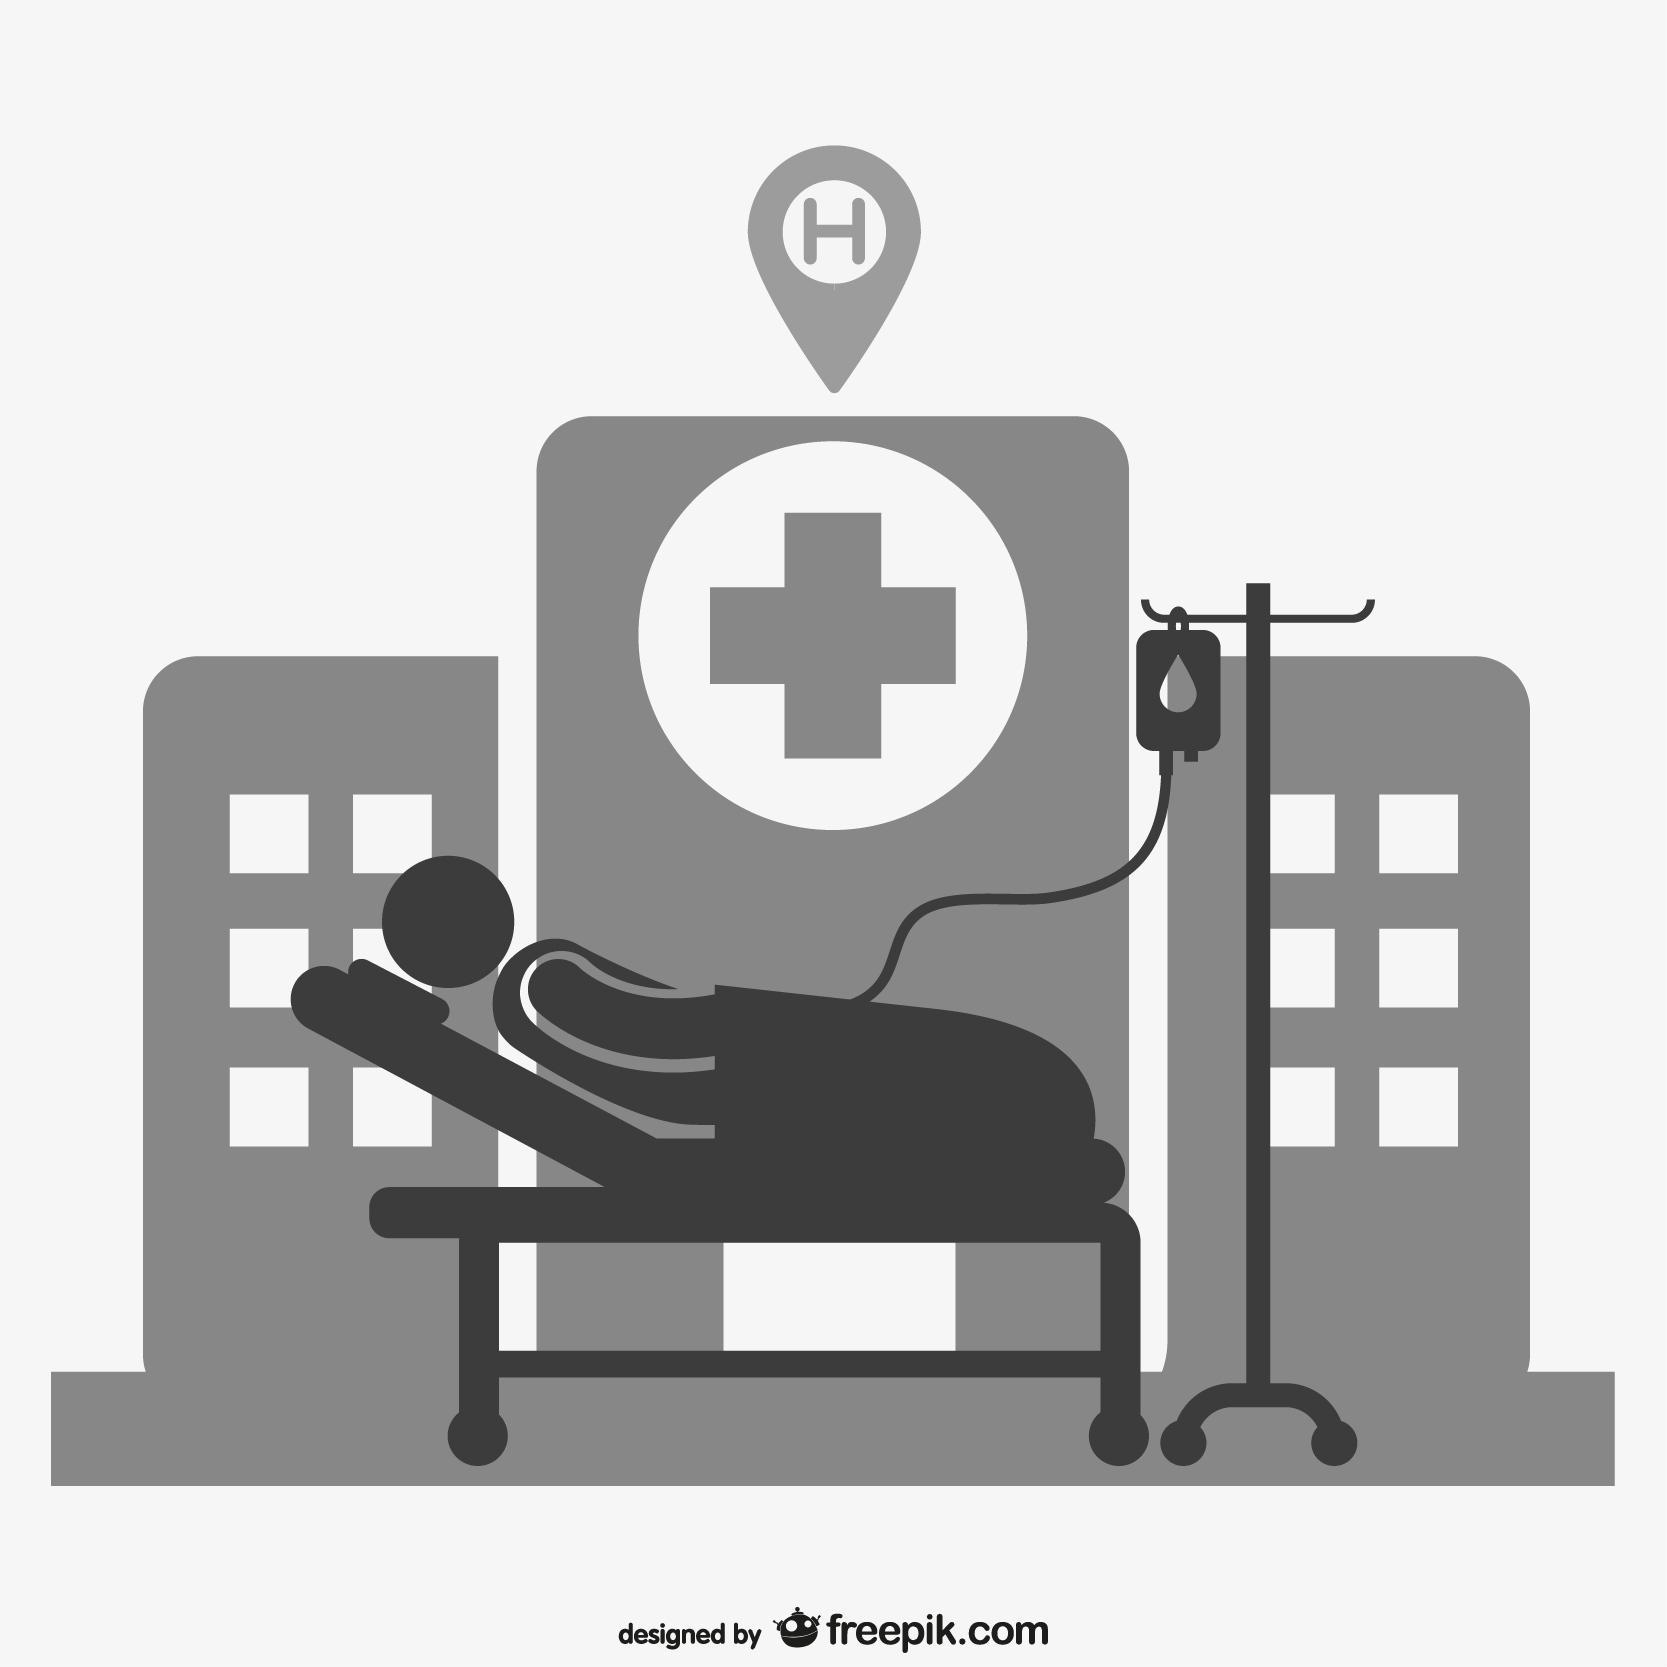
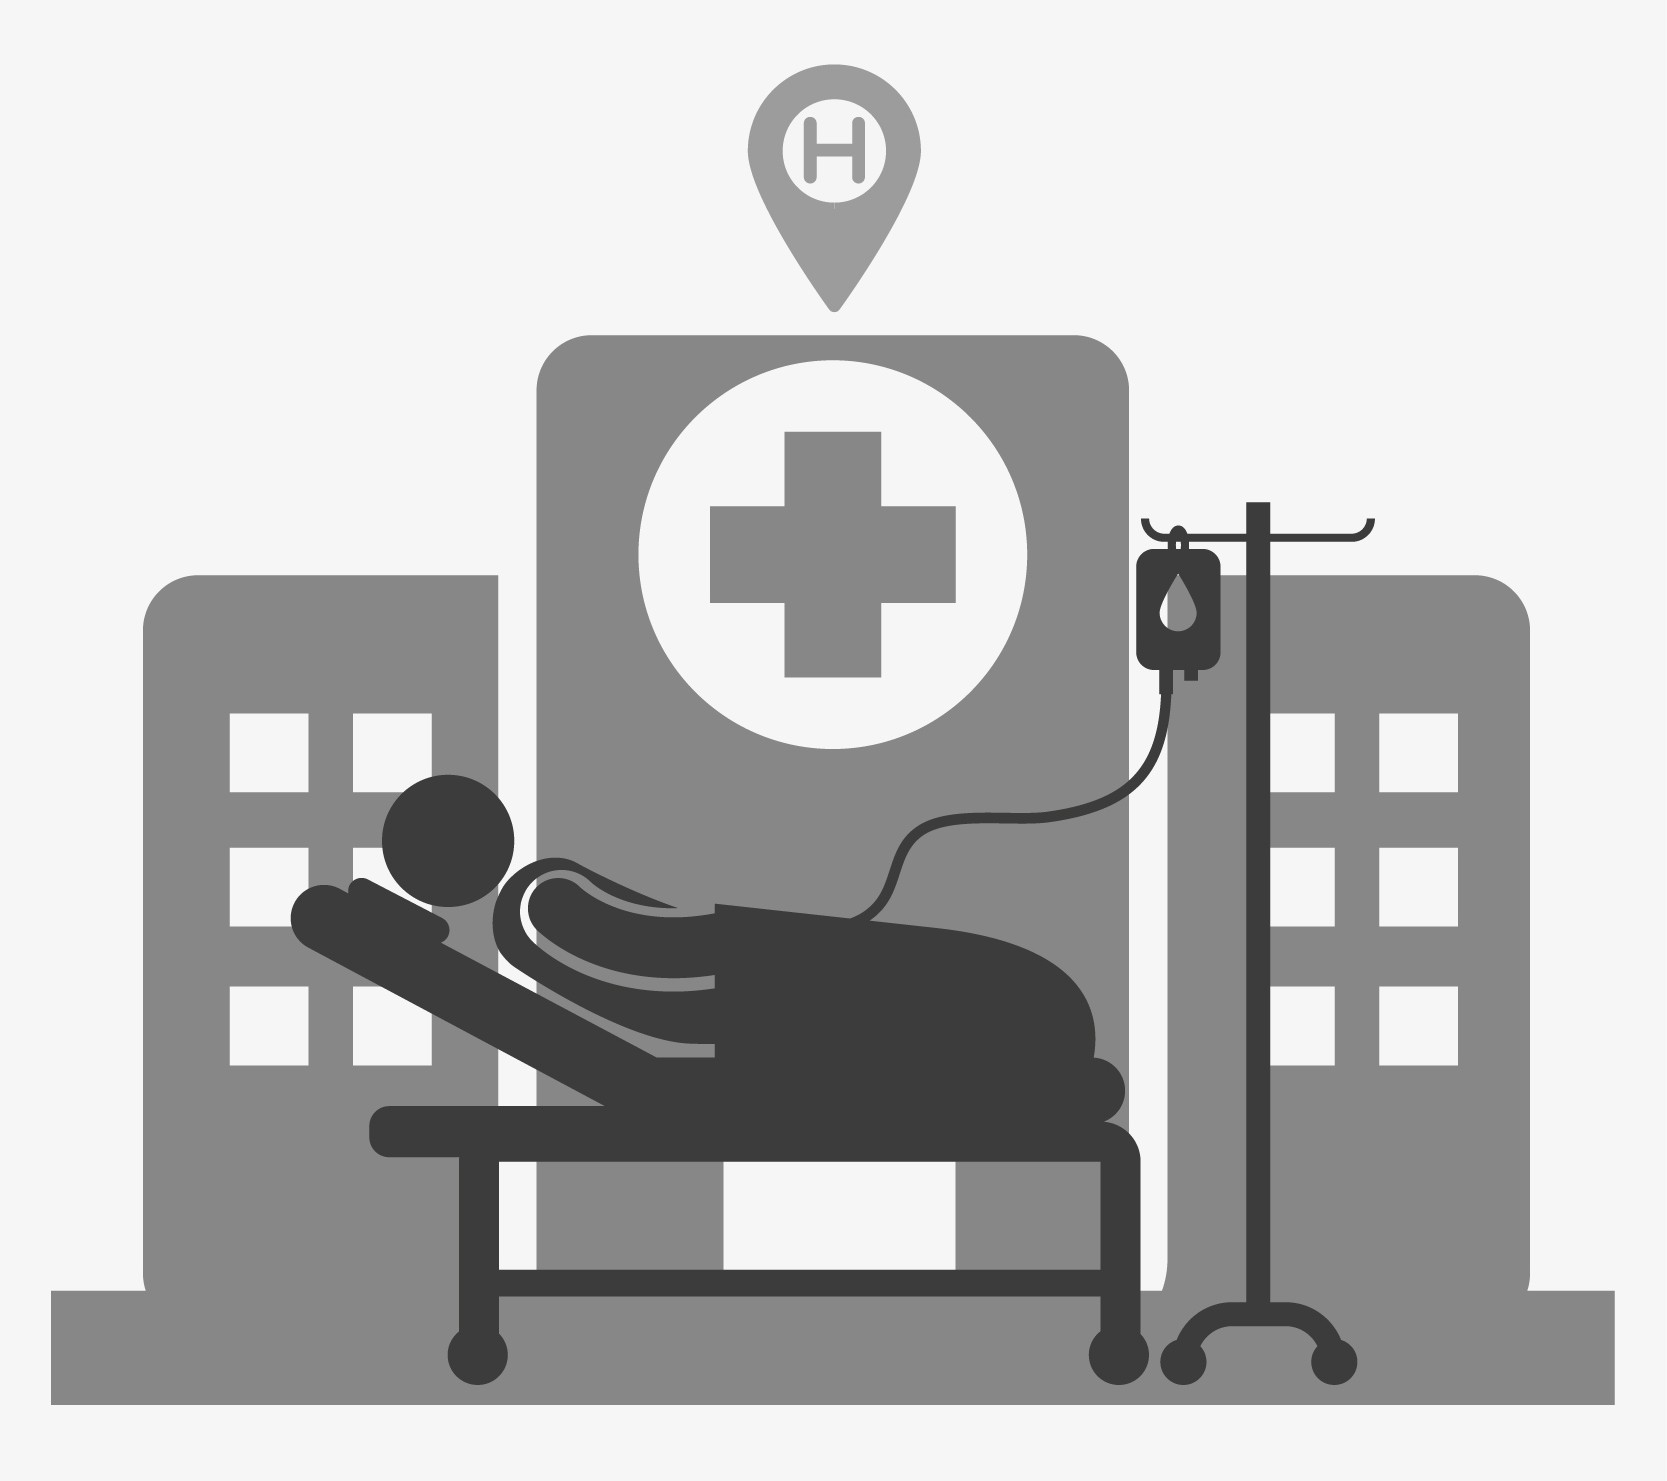
Added a session state for patient

diff --git a/pages/1_Login.py b/pages/1_Login.py
@@ -2,19 +2,26 @@ import streamlit as st
 from nav import nav_bar
 
 nav_bar()
+if "selected_role" not in st.session_state:
+    st.session_state.selected_role = None
 st.write("")
 st.divider()
 
 col1, col2, col3 = st.columns(3)
 with col1:
-    st.image("assets/patient-logo.png", width= 50, use_container_width= True)
-    st.write("Patient Login")
+    st.image("assets/patient-removebg.png", width= 50, use_container_width= True)
+    if st.button("Patient Login"):
+        st.session_state.selected_role = "Patient"
     st.caption("Registered patient Login Here")
 with col2:
     st.image("assets/staff.png", width= 50, use_container_width= True)
     st.write("Staff Login")
     st.caption("Staff Login Here")
 with col3:
-    st.image("assets/admin.jpg", width= 50, use_container_width= True)
+    st.image("assets/admin-removebg.png", width= 50, use_container_width= True)
     st.write("Admin Login")
     st.caption("Admin Login Here")
+
+if st.session_state.selected_role == "Patient":
+    st.text_input("Enter Your Patient Username")
+    st.text_input("Enter Your Password", type= "password")

diff --git a/home.py b/home.py
@@ -2,6 +2,7 @@ import streamlit as st
 from nav import nav_bar, footer
 
 nav_bar()
+st.session_state.selected_role = None
 
 st.logo("assets/logo.png", size="large", icon_image="assets/logo.png")
 title = st.title("Welcome to SyncPoint")

diff --git a/pages/2_Register.py b/pages/2_Register.py
@@ -2,3 +2,4 @@ import streamlit as st
 from nav import nav_bar
 
 nav_bar()
+st.session_state.selected_role = None

diff --git a/pages/3_Help.py b/pages/3_Help.py
@@ -2,3 +2,4 @@ import streamlit as st
 from nav import nav_bar
 
 nav_bar()
+st.session_state.selected_role = None

diff --git a/pages/4_Dashboard.py b/pages/4_Dashboard.py
@@ -2,3 +2,4 @@ import streamlit as st
 from nav import nav_bar
 
 nav_bar()
+st.session_state.selected_role = None

diff --git a/pages/5_Search.py b/pages/5_Search.py
@@ -2,3 +2,4 @@ import streamlit as st
 from nav import nav_bar
 
 nav_bar()
+st.session_state.selected_role = None

diff --git a/pages/6_Upload.py b/pages/6_Upload.py
@@ -2,3 +2,4 @@ import streamlit as st
 from nav import nav_bar
 
 nav_bar()
+st.session_state.selected_role = None
